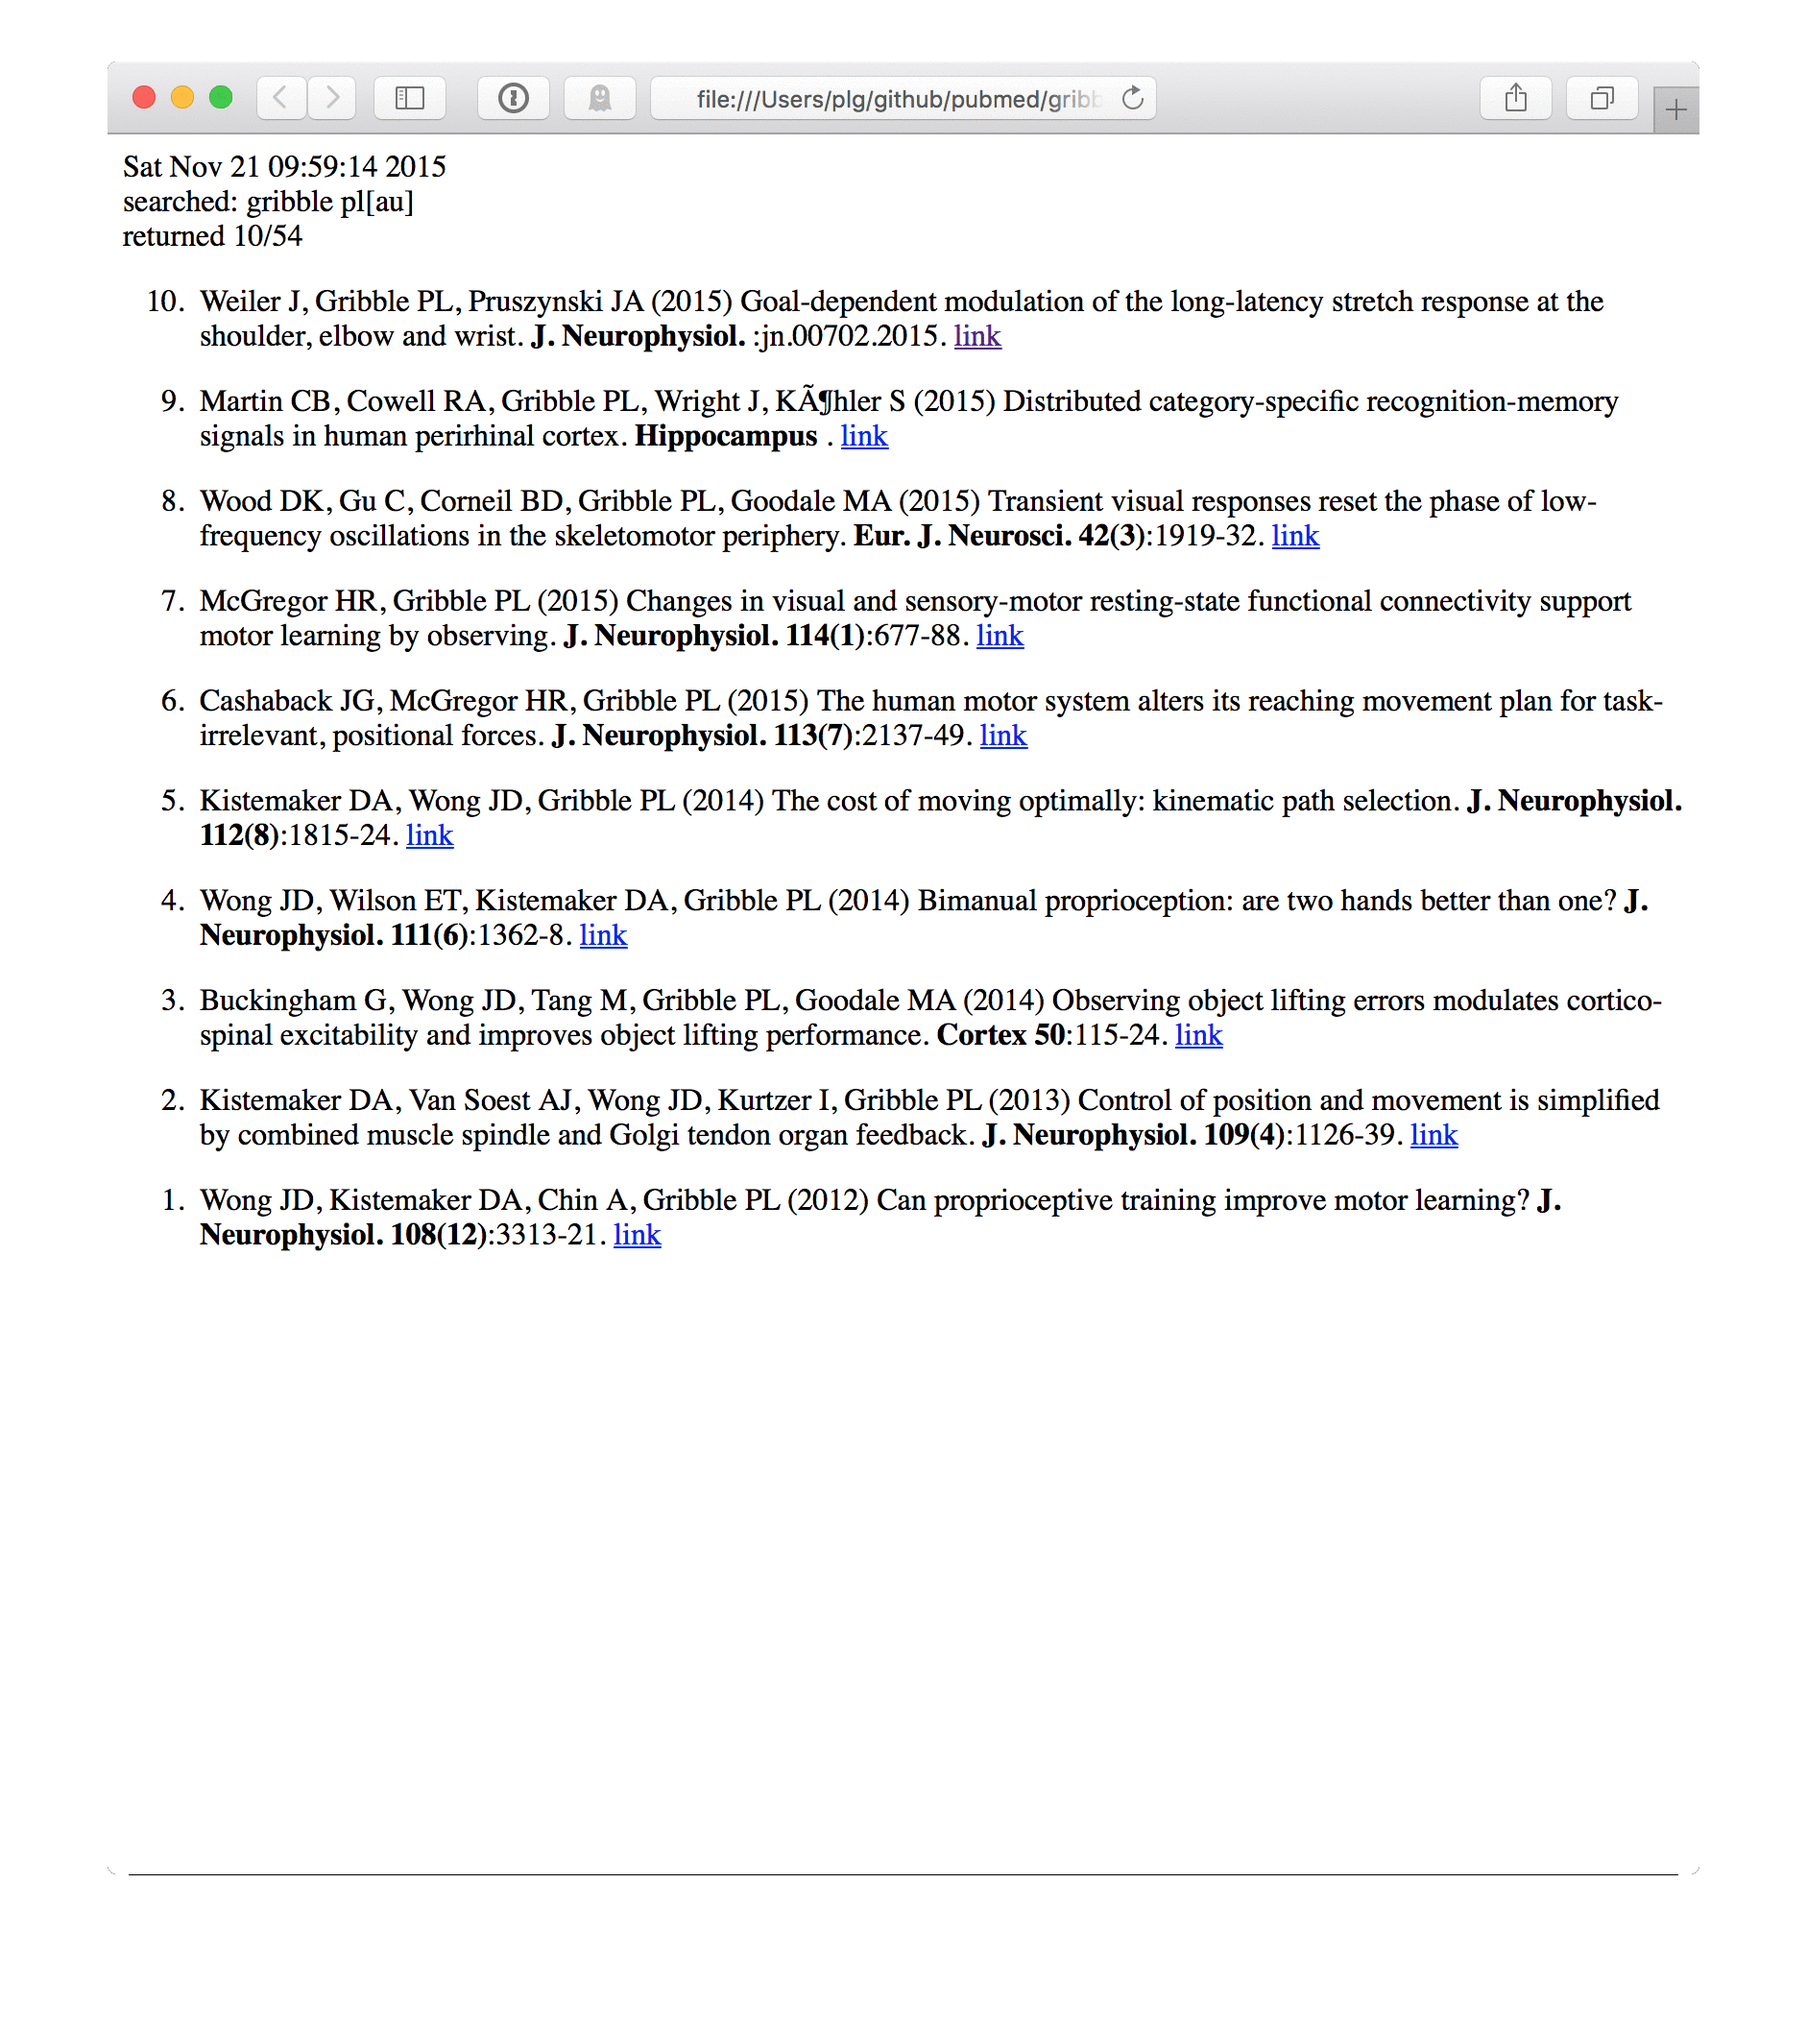
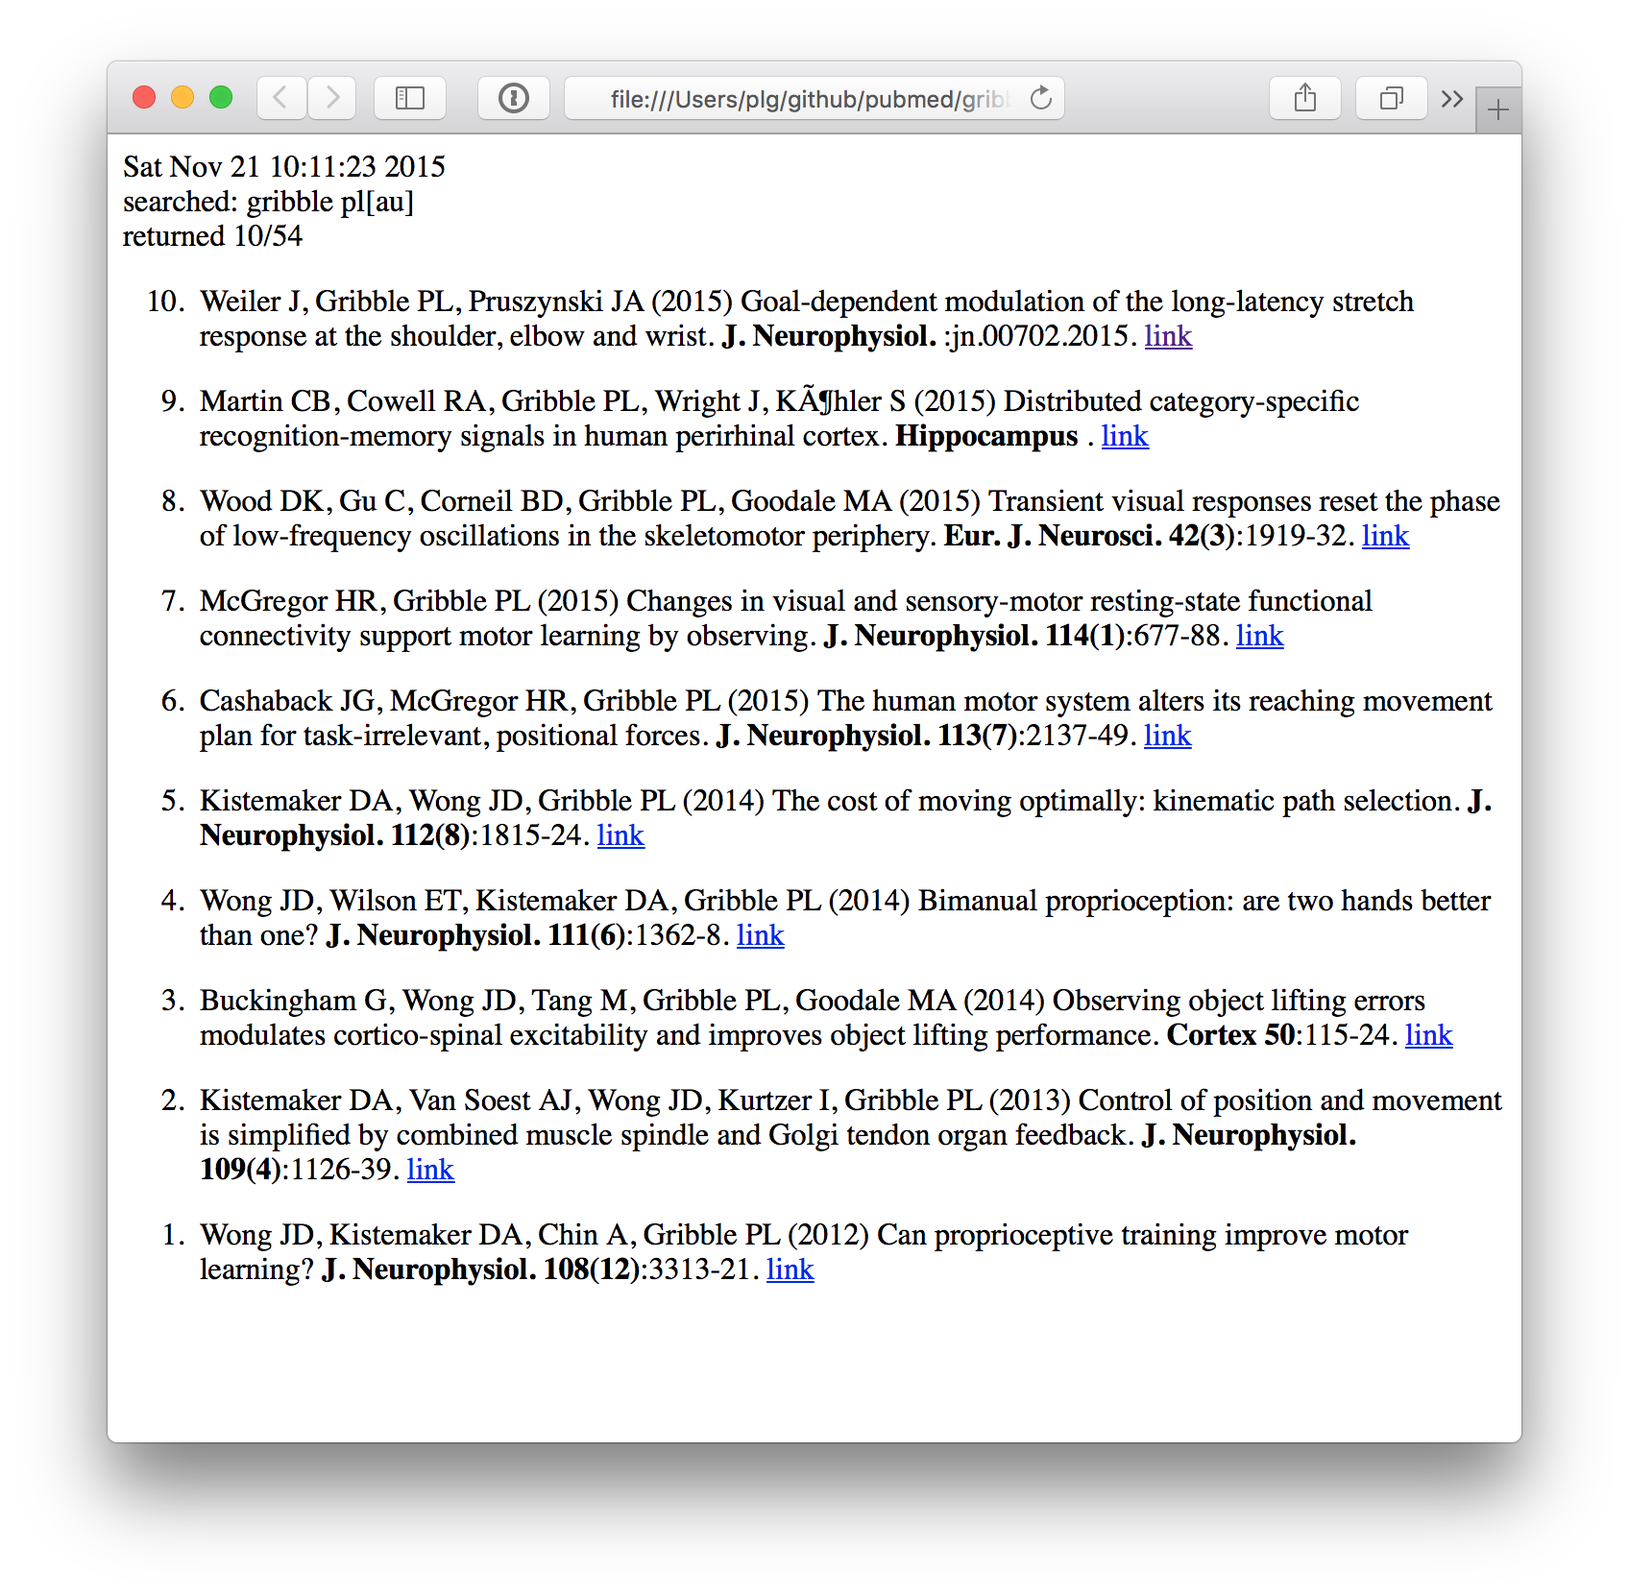
screenshots

Changed region(s): [[0.0312, 0.0307, 0.9688, 0.9513], [0.125, 0.7671, 0.875, 0.8285]]

diff --git a/gribble.html b/gribble.html
@@ -8,7 +8,7 @@ margin-bottom: 1em;
 </head>
 <body>
 <p>
-Sat Nov 21 09:59:14 2015
+Sat Nov 21 10:11:23 2015
 <br>searched: gribble pl[au]
 <br>returned 10/54
 </p>
